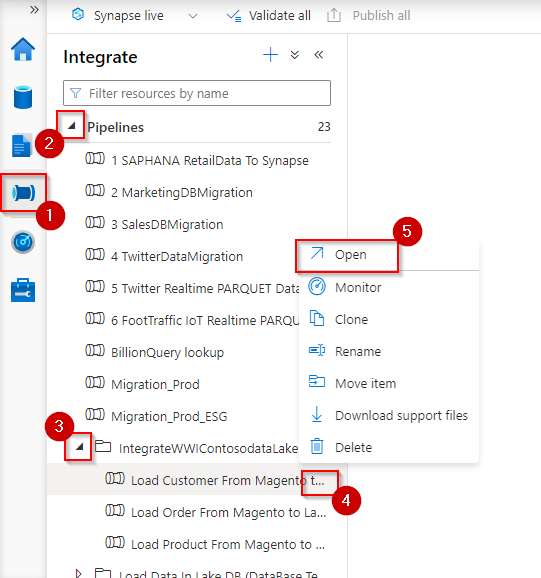
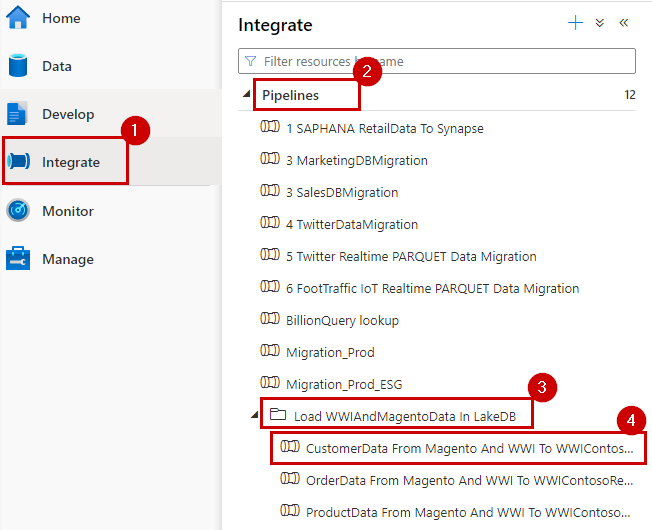
updated readme-shell md

diff --git a/retail/Readme-shell.md b/retail/Readme-shell.md
@@ -318,7 +318,7 @@ cd ./retail/retail
 
 ![Workspace.](media/lake-db-pipeline-7.png)
 
-5. **Click** on the integrate icon on sidebar, **expand** the Pipelines, next **expand** the folder containing the desired pipelines, **click** on the three dots right side of pipeline and then **click** on Open.
+5. **Click** on the integrate icon on sidebar, **expand** the Pipelines, next **expand** the folder containing the desired pipelines, **click** on the pipeline.
 
 ![Workspace.](media/lake-db-pipeline-5.png)
 
@@ -338,94 +338,6 @@ cd ./retail/retail
 
 ### Updating Dashboard and Report Ids in Web app
 
-By default, the web app will be provisioned with Gif placeholders for web app screens with dashboards. Once you have completed the steps listed above in this section, you can update the dashboard id’s generated in to the main web app if you choose. Here are the steps for it.
-
-1. **Navigate** to your Power BI workspace.
-
-2. **Click** on one of the dashboards you created. Eg. Taxpayer Client Services Commissioner Dashboard Before.
-
-	![Navigate and Click.](media/updating-powerbi.png)
-
-3. **Copy** the dashboard id from the url bar at the top.
-	
-	![Copy the dashboard id.](media/updating-powerbi-2.png)
-
-4. **Navigate** to azure portal.
-
-5. **Open** the Azure Cloud Shell by selecting its icon from the top toolbar.
-
-	![Navigate and Open.](media/updating-powerbi-3.png)
-
-6. **Click** on upload/download button.
-
-7. **Click** download.
-
-8. **Enter** the following path:  
-	
-	```
-	retail/retail/retaildemo-app/wwwroot/config.js
-	```
-
-9. **Click** Download button.
-
-	![Enter path and Click download button.](media/updating-powerbi-4.png)
-
-10. **Edit** the downloaded file in notepad.
-
-11. **Paste** the dashboard id you copied earlier between the double quotes of key ‘taxpayer_client_services_before’.
-
-12. **Save** the changes to the file.
-
-	![Edit paste and save.](media/updating-powerbi-5.png)
-
-13. **Navigate** to azure portal.
-
-14. **Open** the Azure Cloud Shell by selecting its icon from the top toolbar.
-
-	![Navigate and Open.](media/updating-powerbi-6.png)
-
-15. **Click** upload/download button.
-
-16. **Click** upload.
-
-17. **Select** the config.js file you just updated.
-
-18. **Click** open.
-
-	![Select and Click open.](media/updating-powerbi-7.png)
-
-19. **Execute** following command in cloudshell:  
-	
-	```
-	cp config.js ./retail/retail/retaildemo-app/wwwroot
-	```
-	
-	![Execute the command.](media/updating-powerbi-8.png)
-
-20.	Execute  following command in cloudshell: 
-	
-	```
-	cd retail/retail/subscripts 
-	./updateWebAppSubScript.ps1
-	```
-	
-	![Execute the command.](media/updating-powerbi-9.png)
-
-21. From the Azure Cloud Shell, **copy** the authentication code. 
-
-22. **Click** on the link [https://microsoft.com/devicelogin](https://microsoft.com/devicelogin) and a new browser window will launch.
-
-	![Copy and Click on Link.](media/updating-powerbi-10.png)
-
-23. **Paste** the authentication code.
-
-24. **Select** appropriate username when prompted.
-
-25. Wait for script execution to complete.
-
-	![Paste select and wait.](media/updating-powerbi-11.png)
-
-> **Note:** You may be prompted to select your subscription if you have multiple subscriptions.
 
 ### Task 7: QnAmaker and LogicApp Configuration
 
@@ -441,7 +353,7 @@ By default, the web app will be provisioned with Gif placeholders for web app sc
 
 	![Open and Click on Azure Cloud Shell.](media/fintax-poc.png)
 
-**Execute** the Pause_Resume_script.ps1 script by executing the following command: 
+**Execute** the Pause_Resume_script.ps1 script by executing the following command: 
 1. **Run** Command: 
 	```
 	cd "retail\retail"
